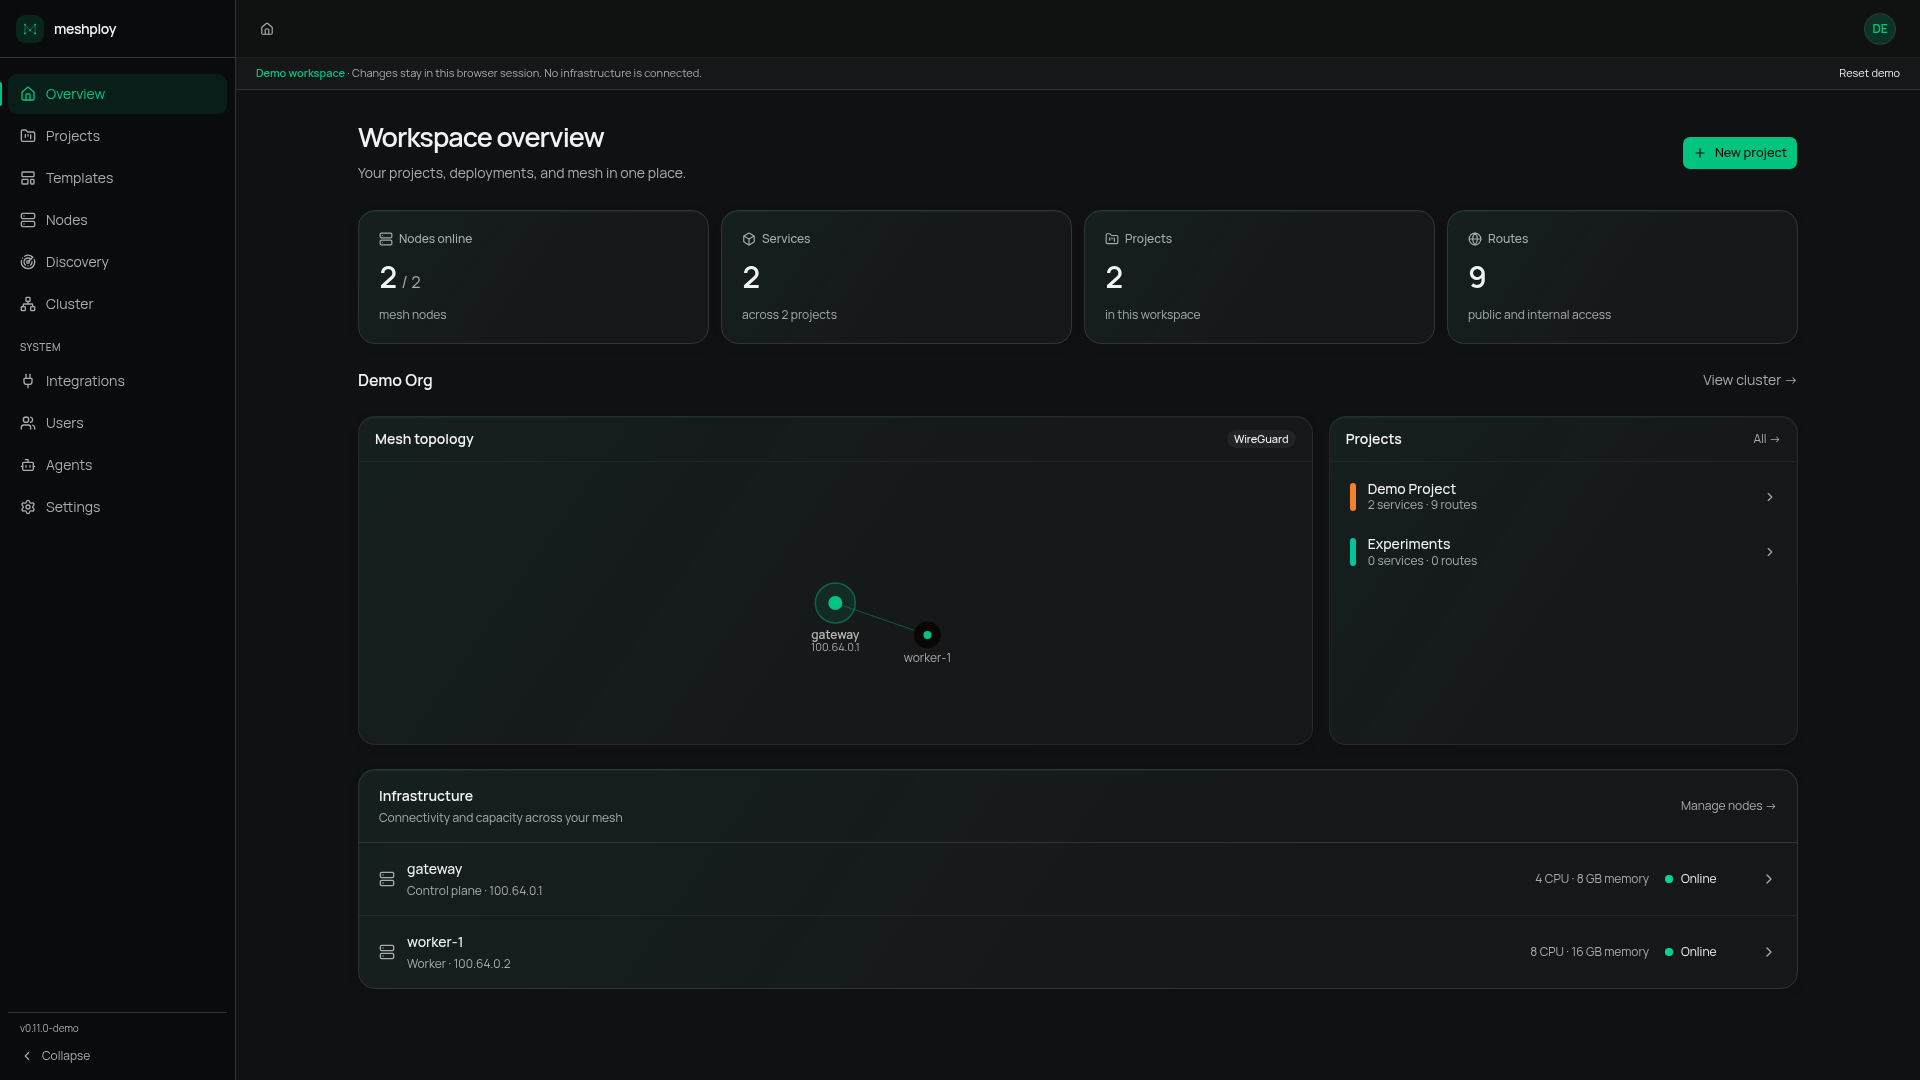
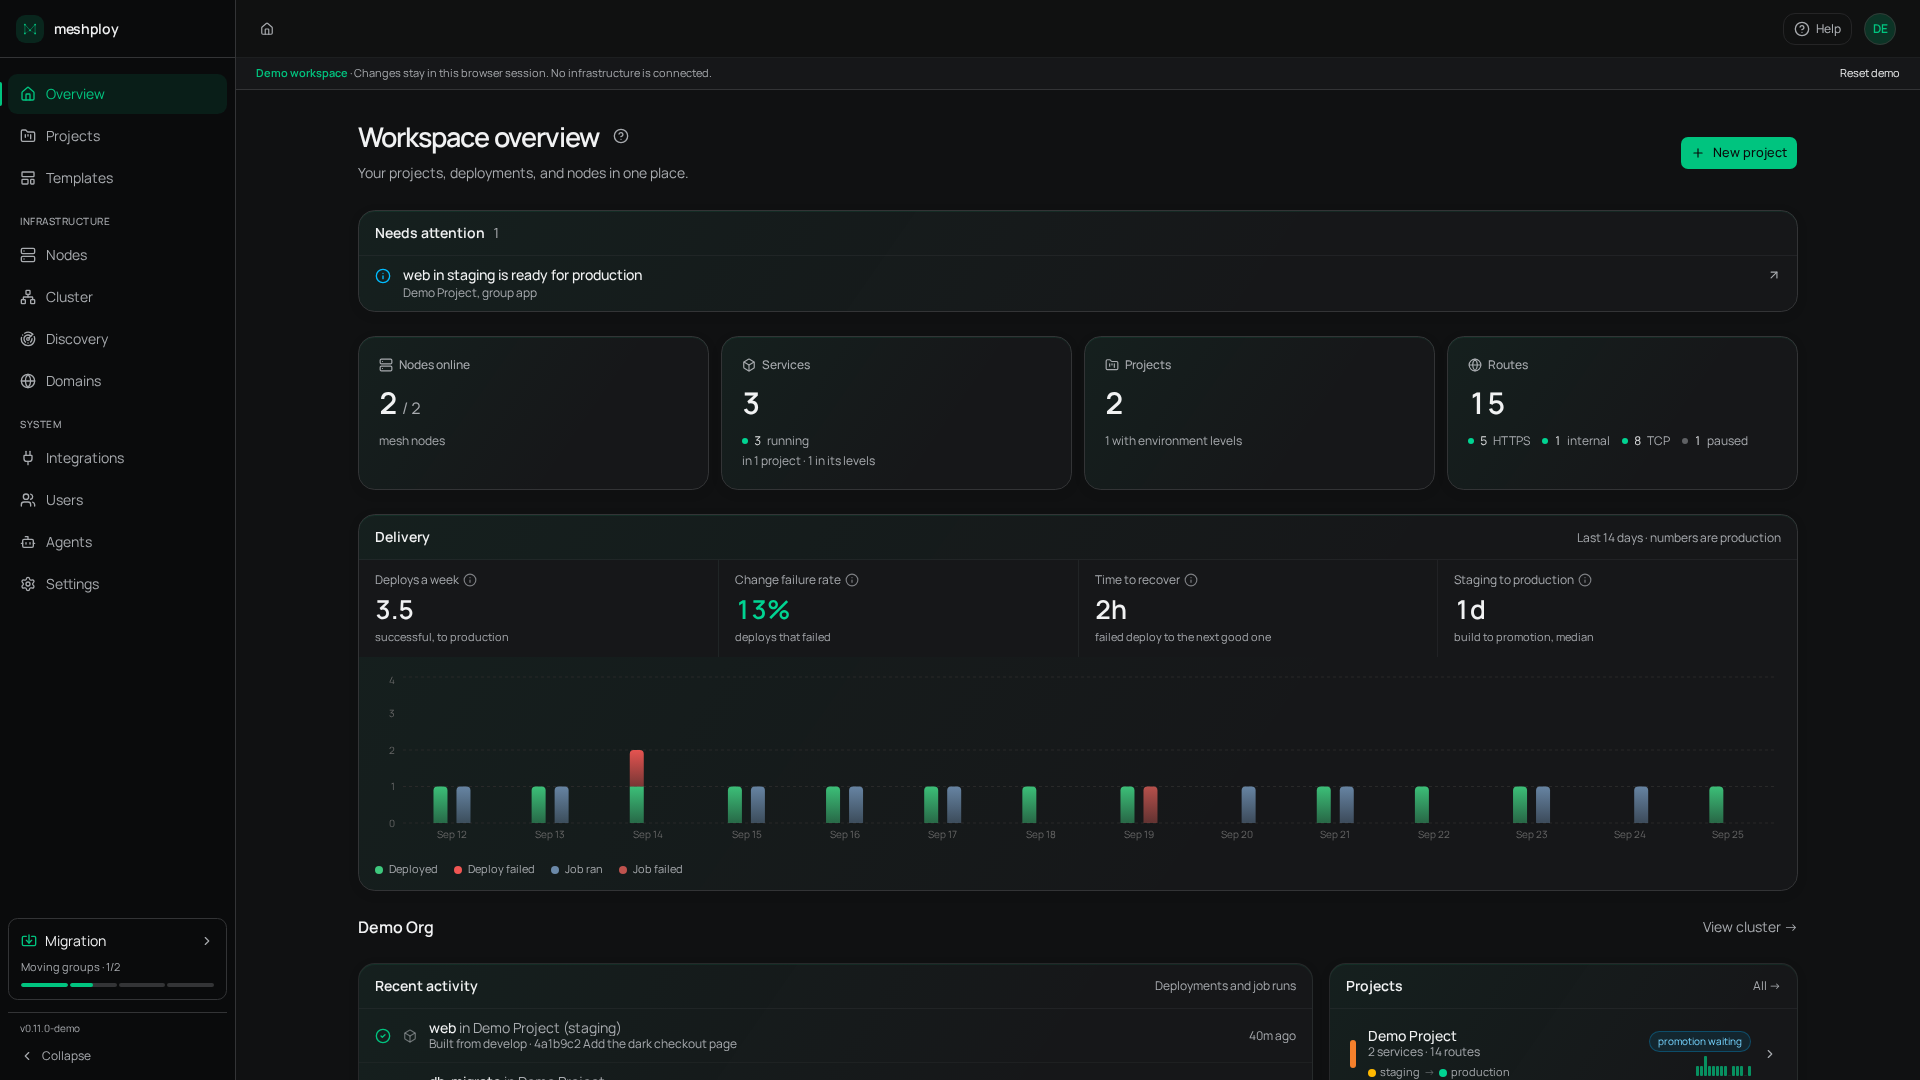
docs: refresh the console screenshot, with the demo's databases backed up

diff --git a/apps/web/src/mocks/state.ts b/apps/web/src/mocks/state.ts
@@ -337,6 +337,7 @@ export const db: Record<string, DemoRecord[]> = {
   ],
   "storage-integrations": [
     record({
+      id: "00000000-0000-0000-0000-0000000000c1",
       name: "Demo backups",
       provider: "s3",
       endpoint: "",
@@ -424,7 +425,21 @@ export const db: Record<string, DemoRecord[]> = {
     },
   ],
   runs: [seed.demoJobRun, ...demoRunHistory()],
-  backups: [],
+  // Every demo database is backed up nightly, as a real workspace should be.
+  // Postgres has a good backup to clone from; the rest are set up but have not
+  // run yet, which is what the board's "no backup yet" says for them.
+  backups: [seed.demoServiceDb, ...demoDatabases.map((d) => d.service)].map((svc, i) =>
+    record({
+      id: `00000000-0000-0000-0000-000000000${300 + i}`,
+      service_id: svc.id,
+      storage_integration_id: "00000000-0000-0000-0000-0000000000c1",
+      schedule: "0 2 * * *",
+      retention_days: 14,
+      enabled: true,
+      last_backup_at: svc.id === seed.demoServiceDb.id ? new Date(Date.now() - 6 * 3_600_000).toISOString() : null,
+      last_backup_status: svc.id === seed.demoServiceDb.id ? "success" : null,
+    })
+  ),
   permissions: [],
 }
 export const org = { ...seed.demoOrg }

diff --git a/apps/web/src/mocks/handlers/workspace.ts b/apps/web/src/mocks/handlers/workspace.ts
@@ -691,7 +691,12 @@ export const workspaceHandlers = [
       attention.push({ kind: "job_failed", severity: "warning", title: `The last run of ${j.name} failed`,
         detail: `in ${where(j.project_id)}`, project_id: j.project_id, job_id: j.id })
     const unprotected = new Map<string, DemoRecord[]>()
-    for (const d of db.services.filter((s) => s.type === "database" && !s.has_backup))
+    // As the API decides it: no enabled backup configured, or a last backup that failed.
+    const configured = (id: string) => db.backups.find((b) => b.service_id === id && b.enabled !== false)
+    for (const d of db.services.filter((s) => s.type === "database" && configured(s.id)?.last_backup_status === "failed"))
+      attention.push({ kind: "backup_failed", severity: "warning", title: `The last backup of ${d.name} failed`,
+        detail: `in ${where(d.project_id)}`, project_id: d.project_id, service_id: d.id })
+    for (const d of db.services.filter((s) => s.type === "database" && !configured(s.id)))
       unprotected.set(d.project_id, [...(unprotected.get(d.project_id) ?? []), d])
     for (const [pid, list] of unprotected) {
       const names = list.map((d) => d.name)

diff --git a/README.md b/README.md
@@ -27,7 +27,7 @@ Meshploy is a self-hosted application platform that connects your servers over a
 
 Build on a machine you choose. Run workloads on connected workers. Keep control of where your applications and data live.
 
-[![Meshploy console showing projects, node health, and a private mesh topology](docs/assets/console-overview.png)](https://meshploy.com/playground/)
+[![Meshploy console showing what needs attention, resources across environment levels, and delivery over two weeks](docs/assets/console-overview.png)](https://meshploy.com/playground/)
 
 <p align="center"><em>The Meshploy console with sample data. Explore it in the browser playground; no server is required.</em></p>
 
